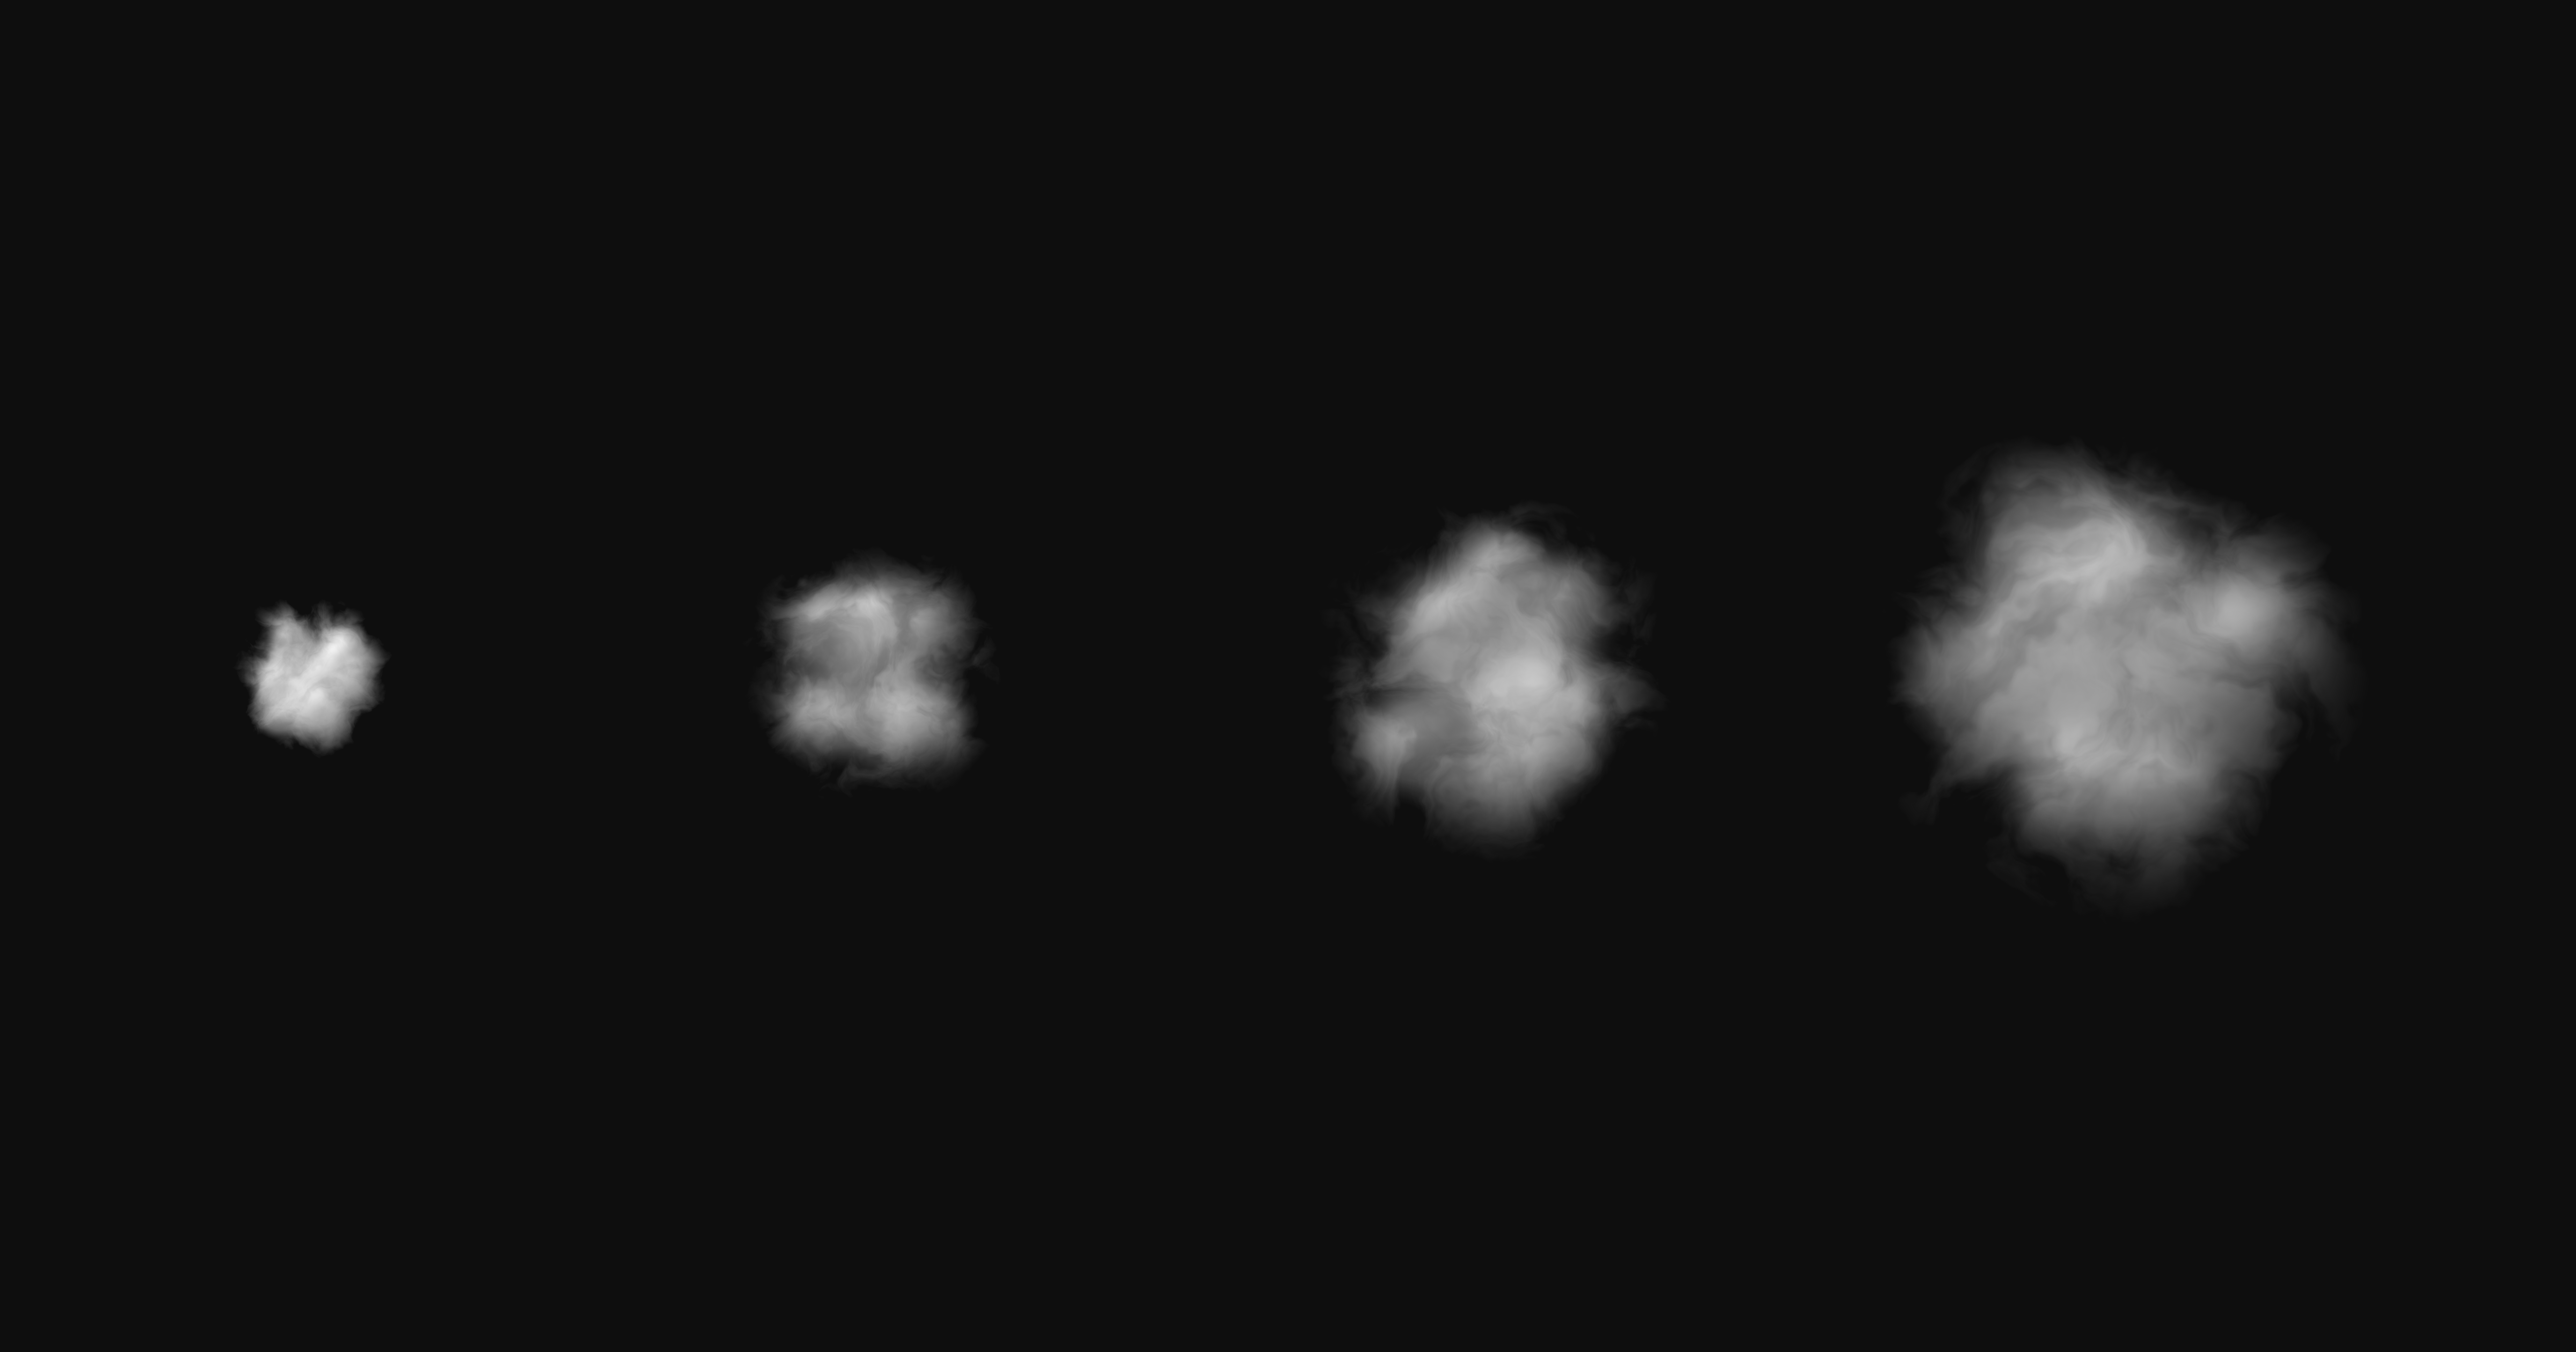
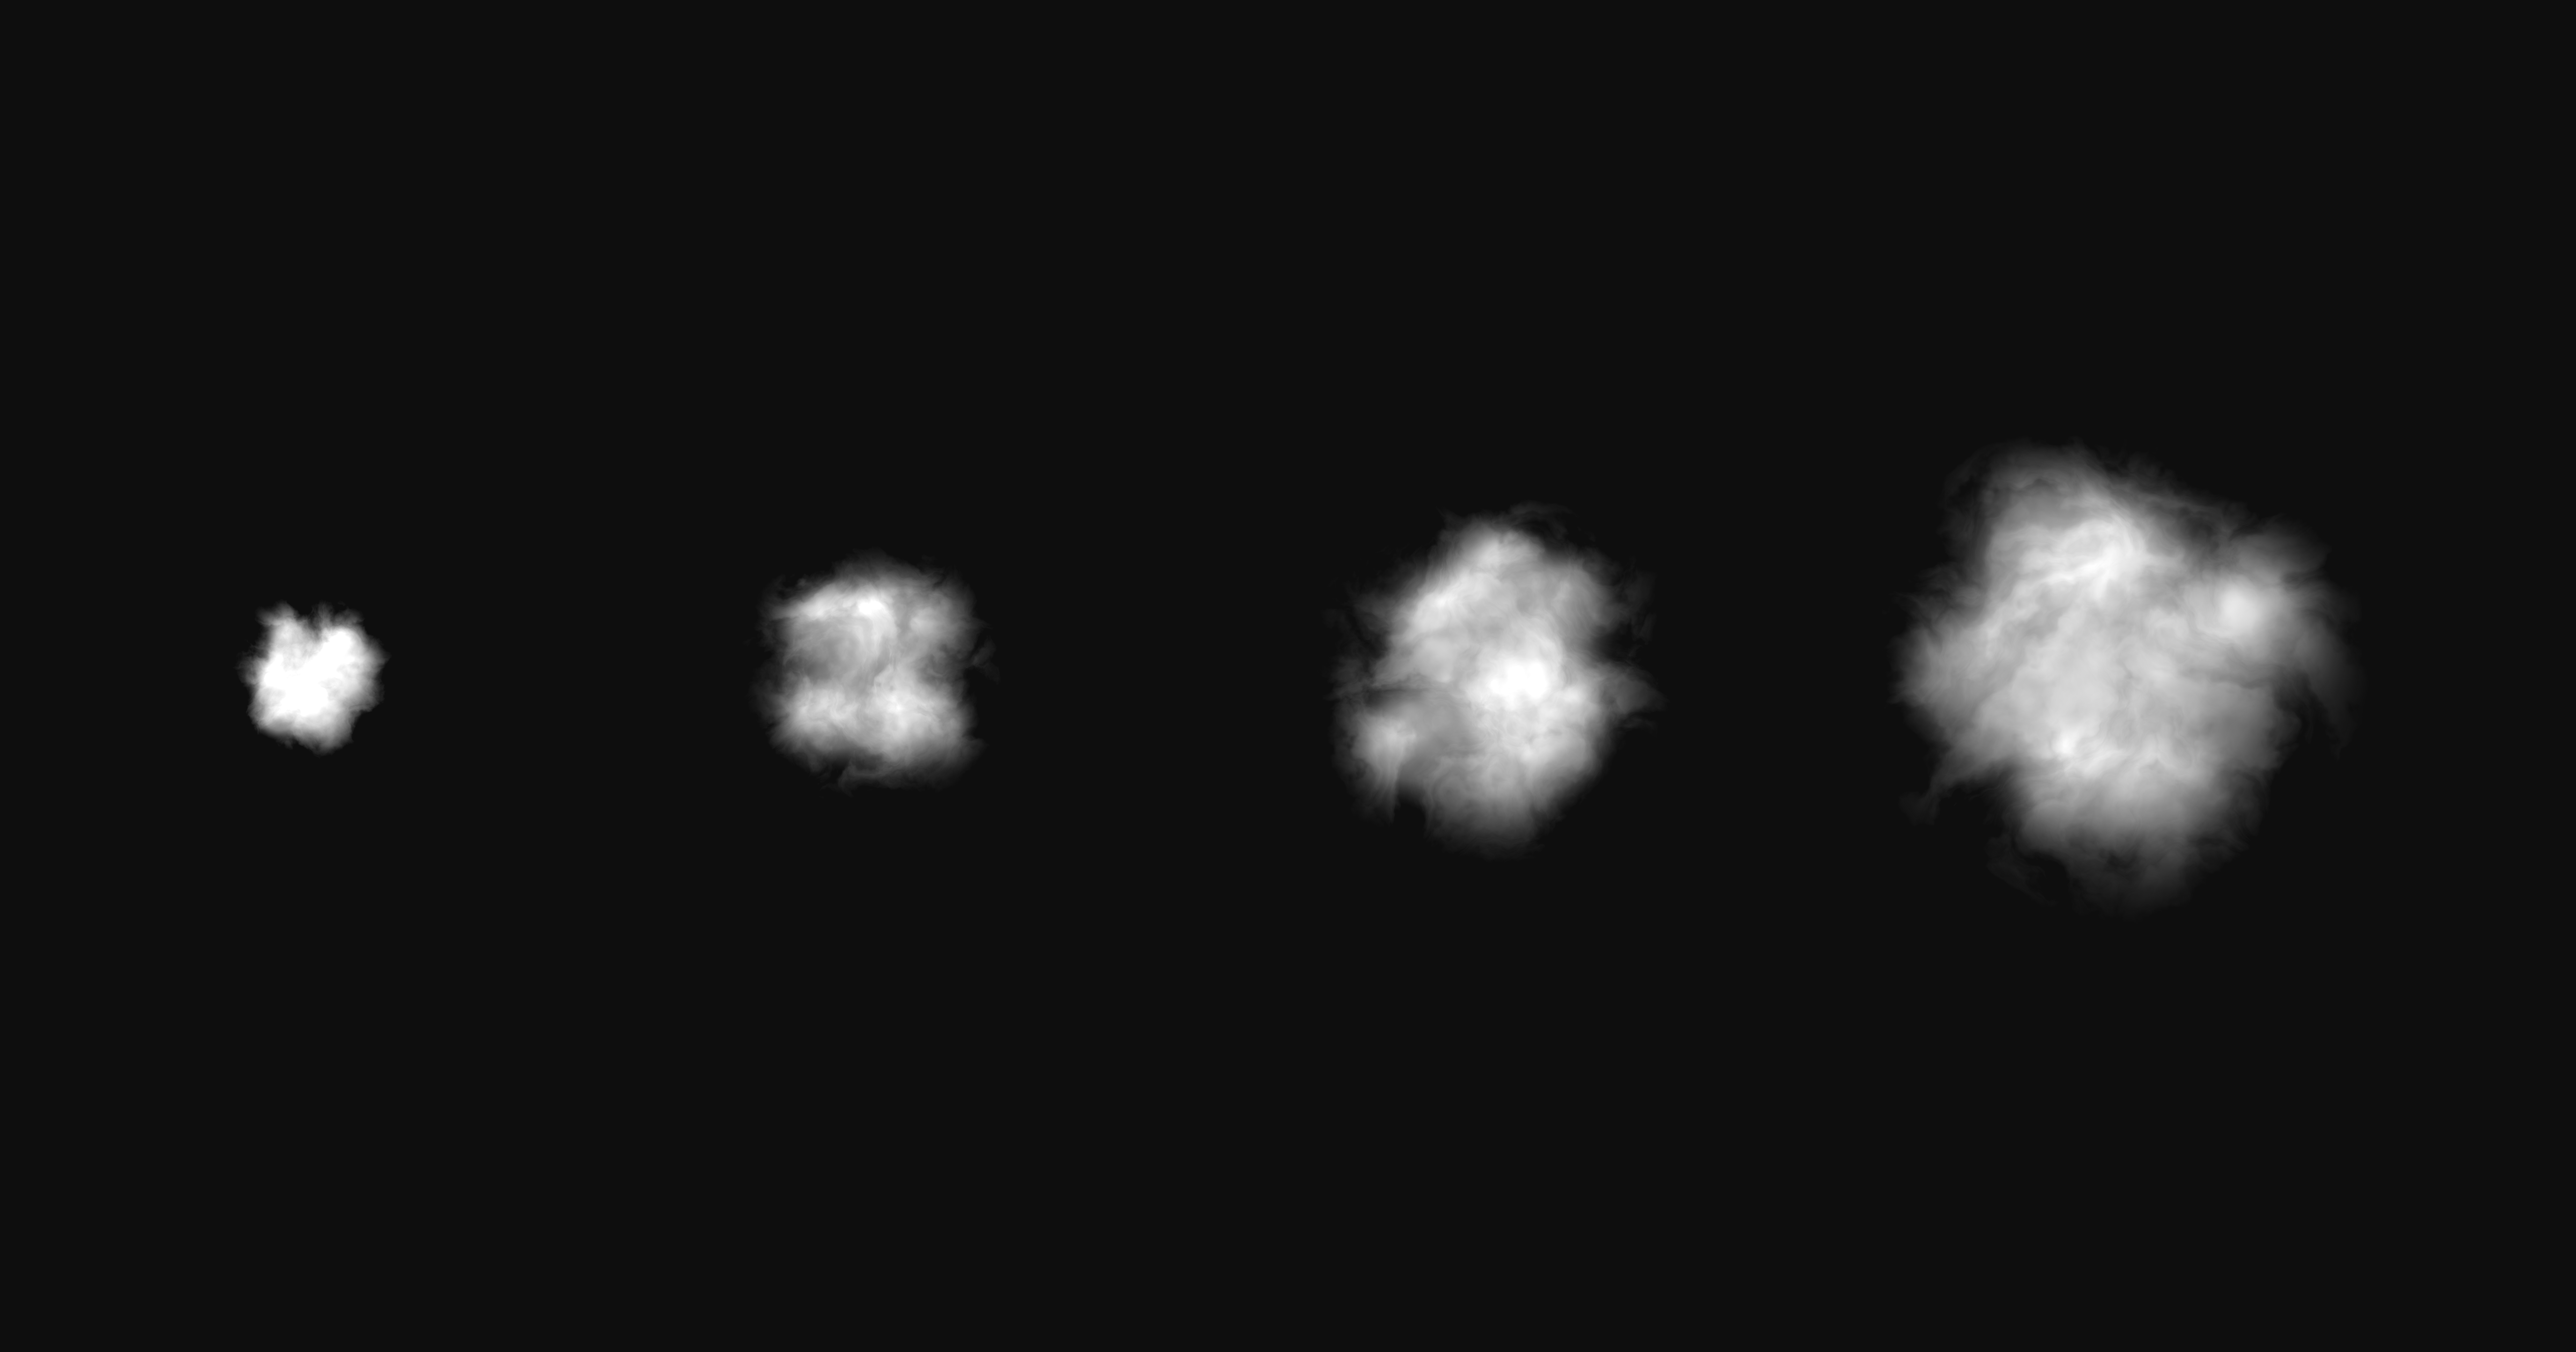
The link previews are denser and carry one more octave of detail
The app's noise is scaled to the puff's radius, which is soft once a cloud
is 2000 px across, so the render page can patch an extra octave and a finer
grain into the shared GLSL for stills, leaving the app's shader alone. The
generator also draws web/og-square.png, one cloud, for wherever a square is
wanted by hand.

diff --git a/Scripts/og/render.html b/Scripts/og/render.html
@@ -12,9 +12,20 @@ const SIZE = num('size', 1700), EXP = num('exp', 0.92), TRAIL = num('trail', 1.0
       CX = num('cx', W / 2), CY = num('cy', H / 2);
 const glc = document.getElementById('gl'); glc.width = W; glc.height = H;
 const gl = glc.getContext('webgl2', {preserveDrawingBuffer: true, alpha: true, premultipliedAlpha: true});
+// The app's noise is scaled to the puff's radius, which is right for a
+// 100 px puff and soft on a 2000 px one. 'detail' adds octaves of fbm and
+// a finer, stronger grain for stills, patched into the shared source here so
+// the app's shader stays as it is.
+const DETAIL = num('detail', 0);
+let GLSL = PUFF_GLSL;
+if (DETAIL > 0) {
+  GLSL = GLSL.replace('for (int i = 0; i < 5; i++)', `for (int i = 0; i < ${5 + Math.round(DETAIL)}; i++)`)
+    .replace('uv * (6.5 / R) * exp2(-fi)', `uv * (${(6.5 * (1 + DETAIL)).toFixed(1)} / R) * exp2(-fi)`)
+    .replace('(0.96 + 0.06 * grain)', `(${(1 - 0.06 * (1 + DETAIL) / 2).toFixed(3)} + ${(0.06 * (1 + DETAIL)).toFixed(3)} * grain)`);
+}
 const FRAG = `#version 300 es
 precision highp float;
-${PUFF_GLSL}
+${GLSL}
 uniform vec2 uCentre; uniform float uSize; uniform float uTime;
 uniform float uExpansion; uniform float uTrail; uniform float uFlow; uniform vec4 uTint;
 out vec4 fragColor;

diff --git a/README.md b/README.md
@@ -37,4 +37,4 @@ build/DerivedData/SourcePackages/artifacts/sparkle/Sparkle/bin/generate_keys -x 
 - `TypeMeIt/Learning/`, `TypeMeIt/Insights/` ports of Handy's learning engine and insights, with their tests in `TypeMeItTests/`
 - `Packages/TranscribeCpp/` the XCFramework wrapper
 - `web/` the puff on a web page, driven by the pointer; `generate.py` transpiles the shader from `TypeMeIt/Overlay/Puff.metal`
-- `Scripts/`, `.github/workflows/` the release pipeline; `Scripts/generate-dmg-background.sh` draws the disk image's background from frames of the app's own puff shader in `Scripts/puff/`; `Scripts/generate-og.sh` draws the site's link preview, `web/og.png`, the same way through `Scripts/og/`
+- `Scripts/`, `.github/workflows/` the release pipeline; `Scripts/generate-dmg-background.sh` draws the disk image's background from frames of the app's own puff shader in `Scripts/puff/`; `Scripts/generate-og.sh` draws the site's link previews, `web/og.png` and `web/og-square.png`, the same way through `Scripts/og/`
